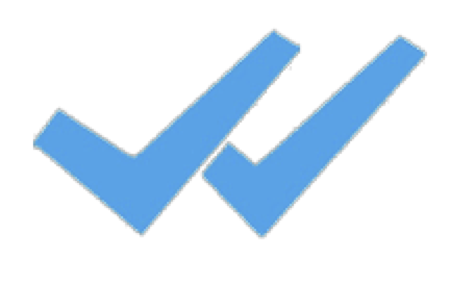
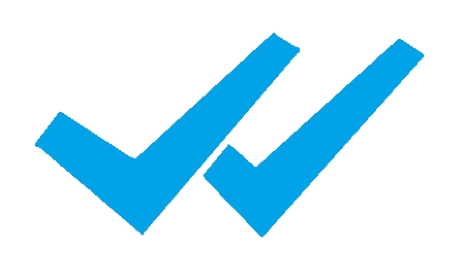
tick images added

diff --git a/whatsapp.html b/whatsapp.html
@@ -40,63 +40,63 @@
           Right message saying
           <div class="textTime">
             14:15
-            <img class="tickImage" src="./images/ticks_copy.png">
+            <img class="tickImage" src="./images/ticks.png">
           </div>
         </div>
         <div class="leftMsg">
           Left message something with some more random text here
           <div class="textTime">
             14:15
-            <img class="tickImage" src="./images/Double_tick.jpg">
+            <img class="tickImage" src="./images/ticks.png">
           </div>
         </div>
         <div class="rightMsg">
           Right something being said
           <div class="textTime">
             14:15
-            <img class="tickImage" src="./images/Double_tick.jpg">
+            <img class="tickImage" src="./images/ticks.png">
           </div>
         </div>
         <div class="leftMsg">
           Left saying something
           <div class="textTime">
             14:15
-            <img class="tickImage" src="./images/Double_tick.jpg">
+            <img class="tickImage" src="./images/ticks.png">
           </div>
         </div>
         <div class="rightMsg">
           Right message saying something this will come in handy
           <div class="textTime">
             14:15
-            <img class="tickImage" src="./images/Double_tick.jpg">
+            <img class="tickImage" src="./images/ticks.png">
           </div>
         </div>
         <div class="leftMsg">
           Left message saying something
           <div class="textTime">
             14:15
-            <img class="tickImage" src="./images/Double_tick.jpg">
+            <img class="tickImage" src="./images/ticks.png">
           </div>
         </div>
         <div class="rightMsg">
           Right message saying something
           <div class="textTime">
             14:15
-            <img class="tickImage" src="./images/Double_tick.jpg">
+            <img class="tickImage" src="./images/ticks.png">
           </div>
         </div>
         <div class="leftMsg">
           Left message saying something
           <div class="textTime">
             14:15
-            <img class="tickImage" src="./images/Double_tick.jpg">
+            <img class="tickImage" src="./images/ticks.png">
           </div>
         </div>
         <div class="rightMsg">
           Right
           <div class="textTime">
             14:15
-            <img class="tickImage" src="./images/Double_tick.jpg">
+            <img class="tickImage" src="./images/ticks.png">
           </div>
         </div>
 

diff --git a/whatsapp.css b/whatsapp.css
@@ -46,10 +46,16 @@ body {
   padding-left: 20px;
   /* height: 100%; */
   color: grey;
+
+  /* border-style: solid;
+  border: 1px; */
+
 }
 
 img {
-  width:  20px;
+  /* border: 1px;
+  border-style:solid; */
+  width:  18px;
   /* padding-top: 7px;
   margin:0; */
 }
